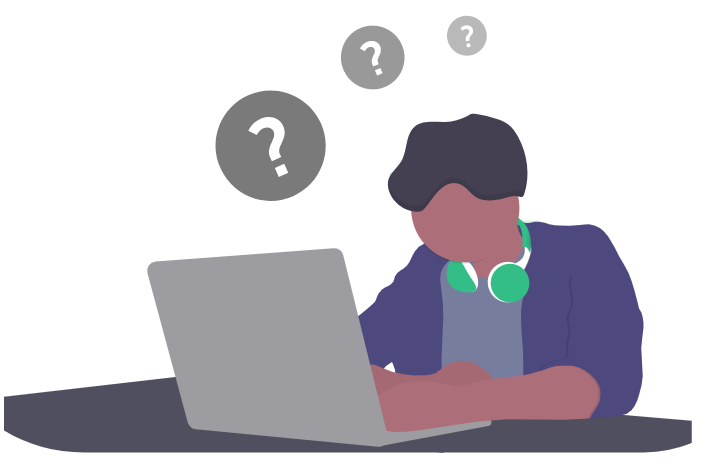
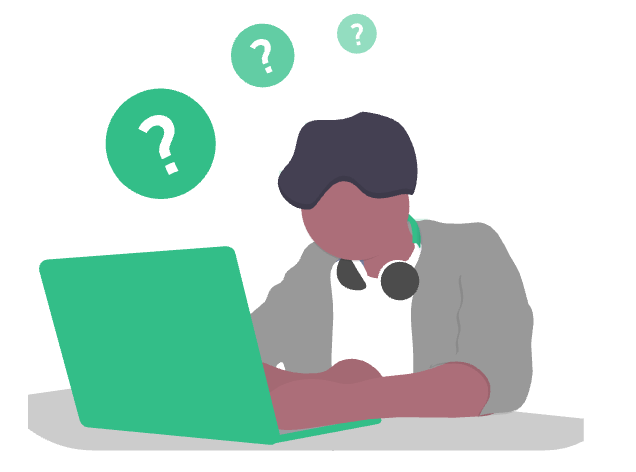
make the confused student lighter, re-position

diff --git a/src/components/landing/LandingCodeReview.tsx b/src/components/landing/LandingCodeReview.tsx
@@ -150,8 +150,8 @@ class CodeReview extends React.Component<{}, IState> {
               style={{
                 opacity: this.state.showComments ? 0 : 1,
                 transition: 'opacity .3s ease',
-                paddingLeft: 30,
-                top: 175,
+                paddingLeft: 75,
+                top: 115,
                 position: 'absolute',
               }}
             >